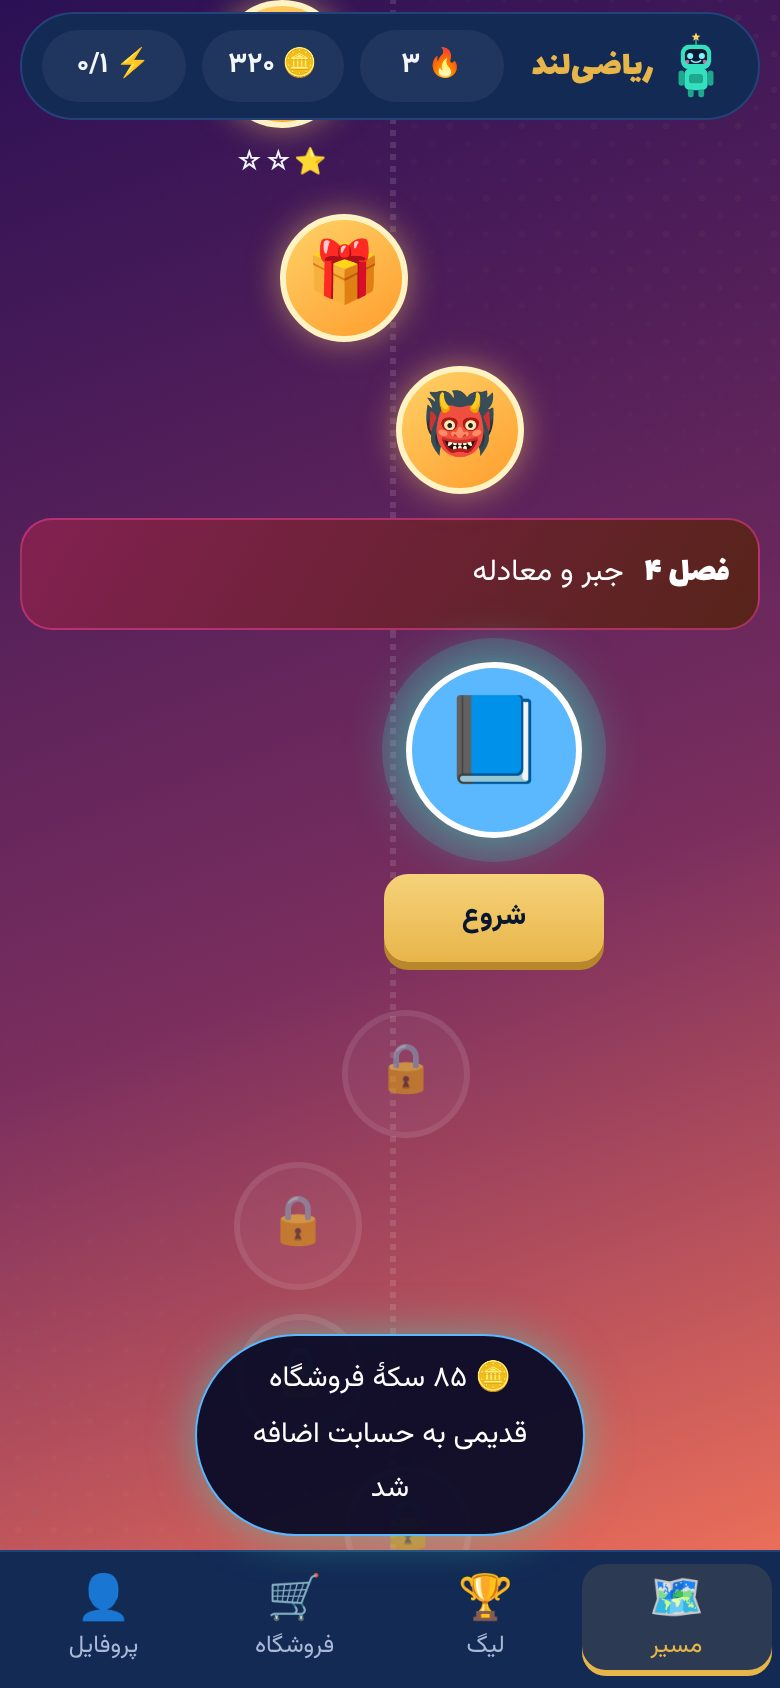
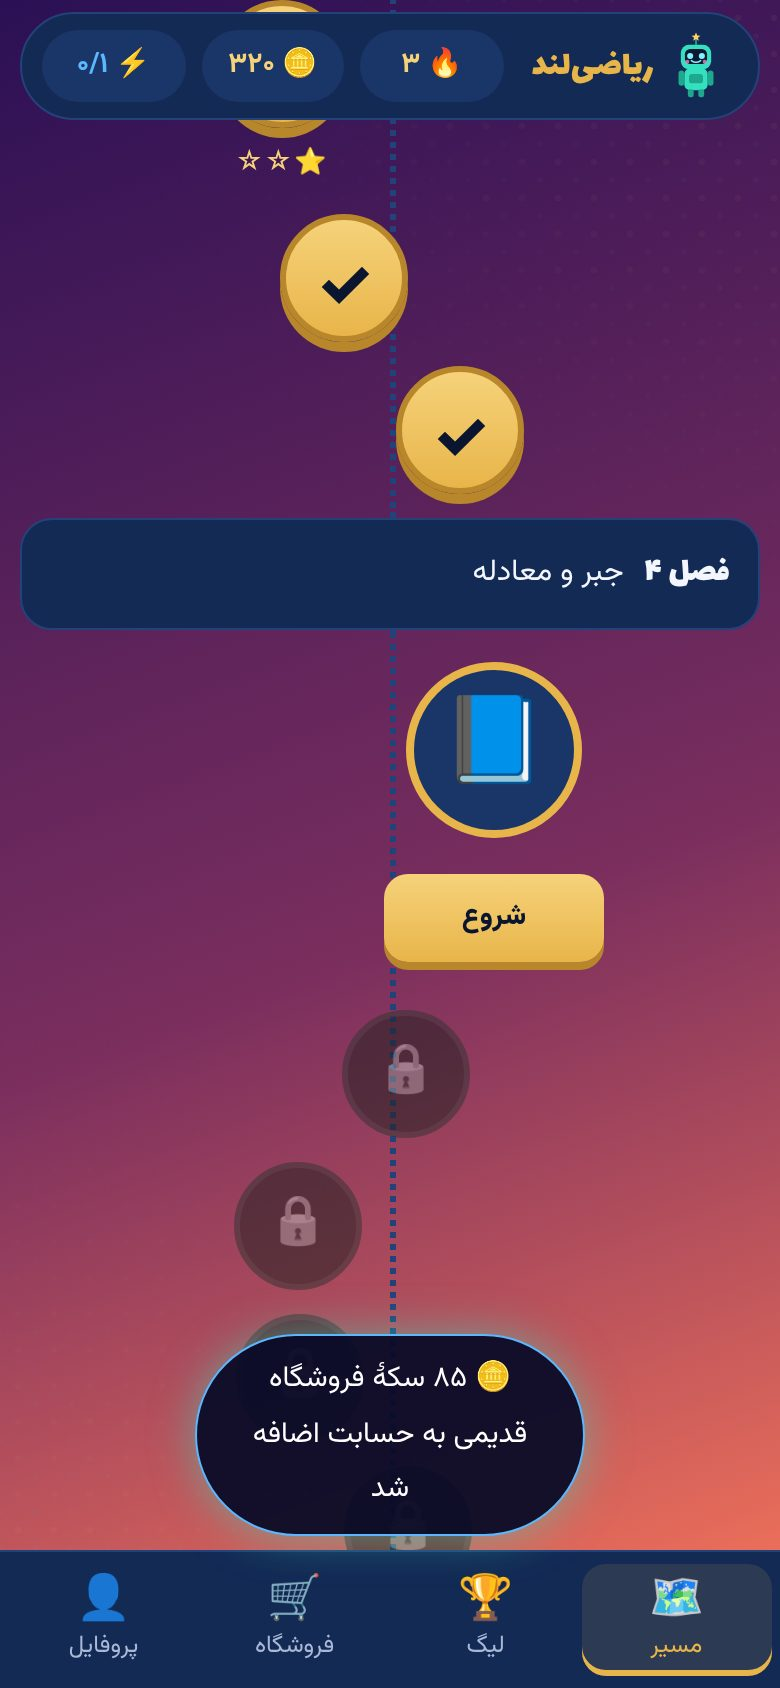
riazi-land: ui P0-5 — header colours, gold done nodes with check, pulsing gold current node, muted locked nodes
Claude-Session: https://claude.ai/code/session_01VDPptadfr94w4emVaDL2Bd

diff --git a/riazi-land/index.html b/riazi-land/index.html
@@ -2833,6 +2833,20 @@ body:before{content:"";position:fixed;inset:0;pointer-events:none;z-index:0;opac
 .mission{border-radius:var(--r-lg)}
 .about{margin-top:12px;text-align:center}.about summary{min-height:44px;display:flex;align-items:center;justify-content:center;cursor:pointer;color:var(--c-text-2);font-weight:700}
 .about p{margin:4px 0 8px;font-size:var(--fs-small,13px);color:var(--c-text-2);line-height:1.9}.about b{color:var(--c-gold)}
+/* ===== UI P0-5: هدر و گرههای مسیر ===== */
+.hst{background:var(--c-surface-2);border:0;color:var(--c-text)}
+#hStk,#hCoin{color:var(--c-gold-hi)}#hXp{color:var(--c-info)}
+.pnodes:before{border-left:3px dotted var(--c-line)}
+.pcir{background:var(--c-surface);border:3px solid var(--c-line);box-shadow:0 5px 0 rgba(0,0,0,.28)}
+.pn.locked .pcir{background:var(--c-surface);border-color:var(--c-line);opacity:.55;filter:grayscale(1) brightness(.85);box-shadow:none}
+.pn.done .pcir{background:linear-gradient(180deg,var(--c-gold-hi),var(--c-gold));border-color:var(--c-gold-lo);box-shadow:0 5px 0 var(--c-gold-lo);font-size:0;color:var(--c-on-gold)}
+.pn.done .pcir:after{content:"✓";font-size:32px;font-weight:800;line-height:1;color:var(--c-on-gold)}
+.pn.cur .pcir{background:var(--c-surface-2);border:4px solid var(--c-gold);box-shadow:0 0 0 0 rgba(232,181,74,.55);animation:ppulseG 1.6s ease-in-out infinite}
+@keyframes ppulseG{0%,100%{box-shadow:0 0 0 0 rgba(232,181,74,.55)}50%{box-shadow:0 0 0 12px rgba(232,181,74,0)}}
+.pn.skip .pcir{background:var(--c-surface-2);border:3px solid var(--c-info)}
+.pst{color:var(--c-gold-hi)}
+.pbn{color:var(--c-text);background:var(--c-surface);border:1px solid var(--c-line)}
+@media (prefers-reduced-motion:reduce){.pn.cur .pcir{animation:none;box-shadow:0 0 0 6px rgba(232,181,74,.28)}}
 @media(min-width:900px){#app{max-width:760px}.lsn-bar{max-width:760px}#bnav button{max-width:170px}}
 @media (prefers-reduced-motion:reduce){*,*:before,*:after{animation-duration:.01ms!important;animation-iteration-count:1!important;transition-duration:.01ms!important;scroll-behavior:auto!important}}
 </style>
